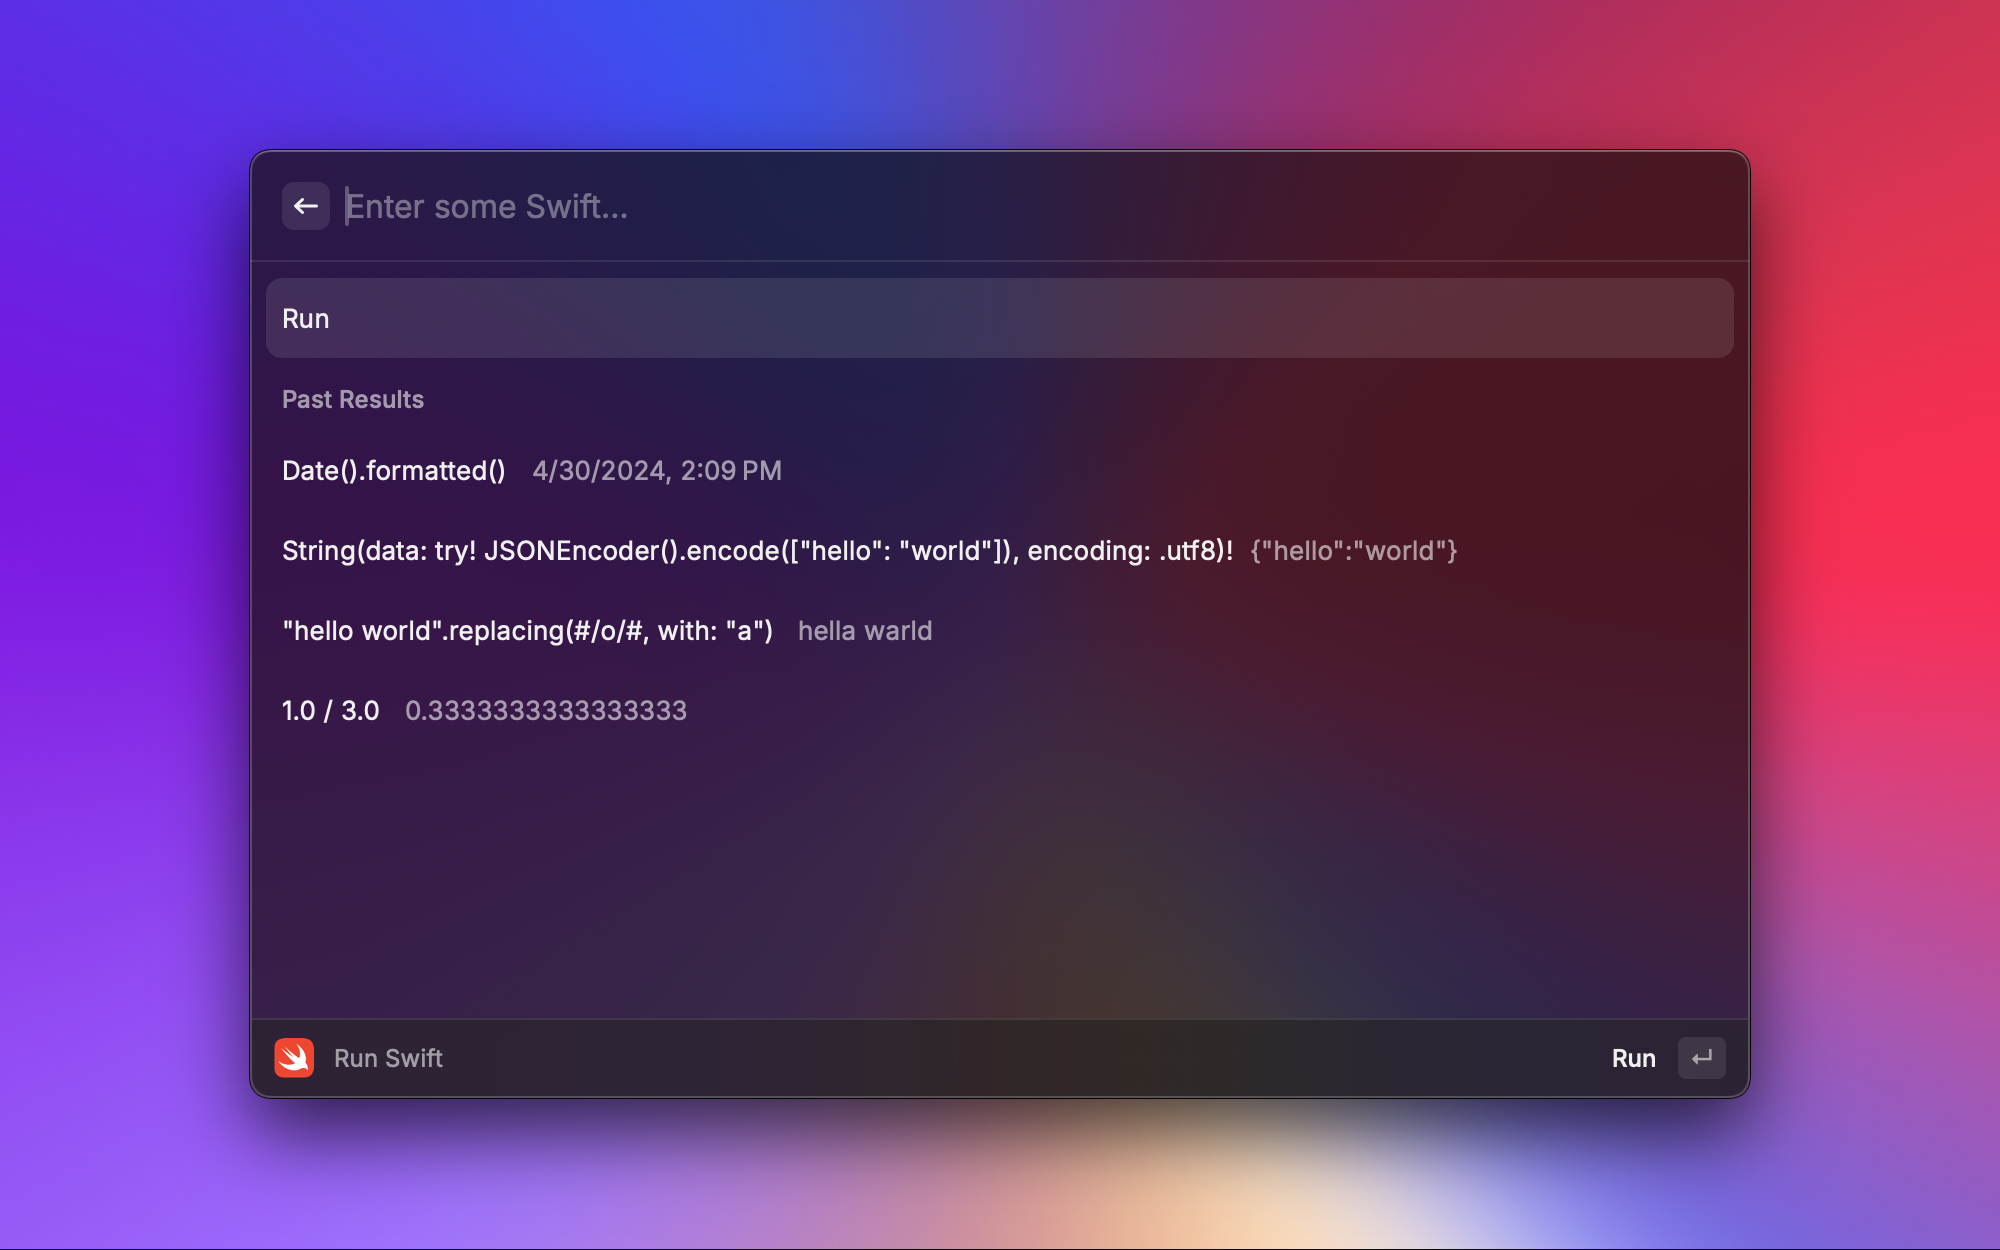
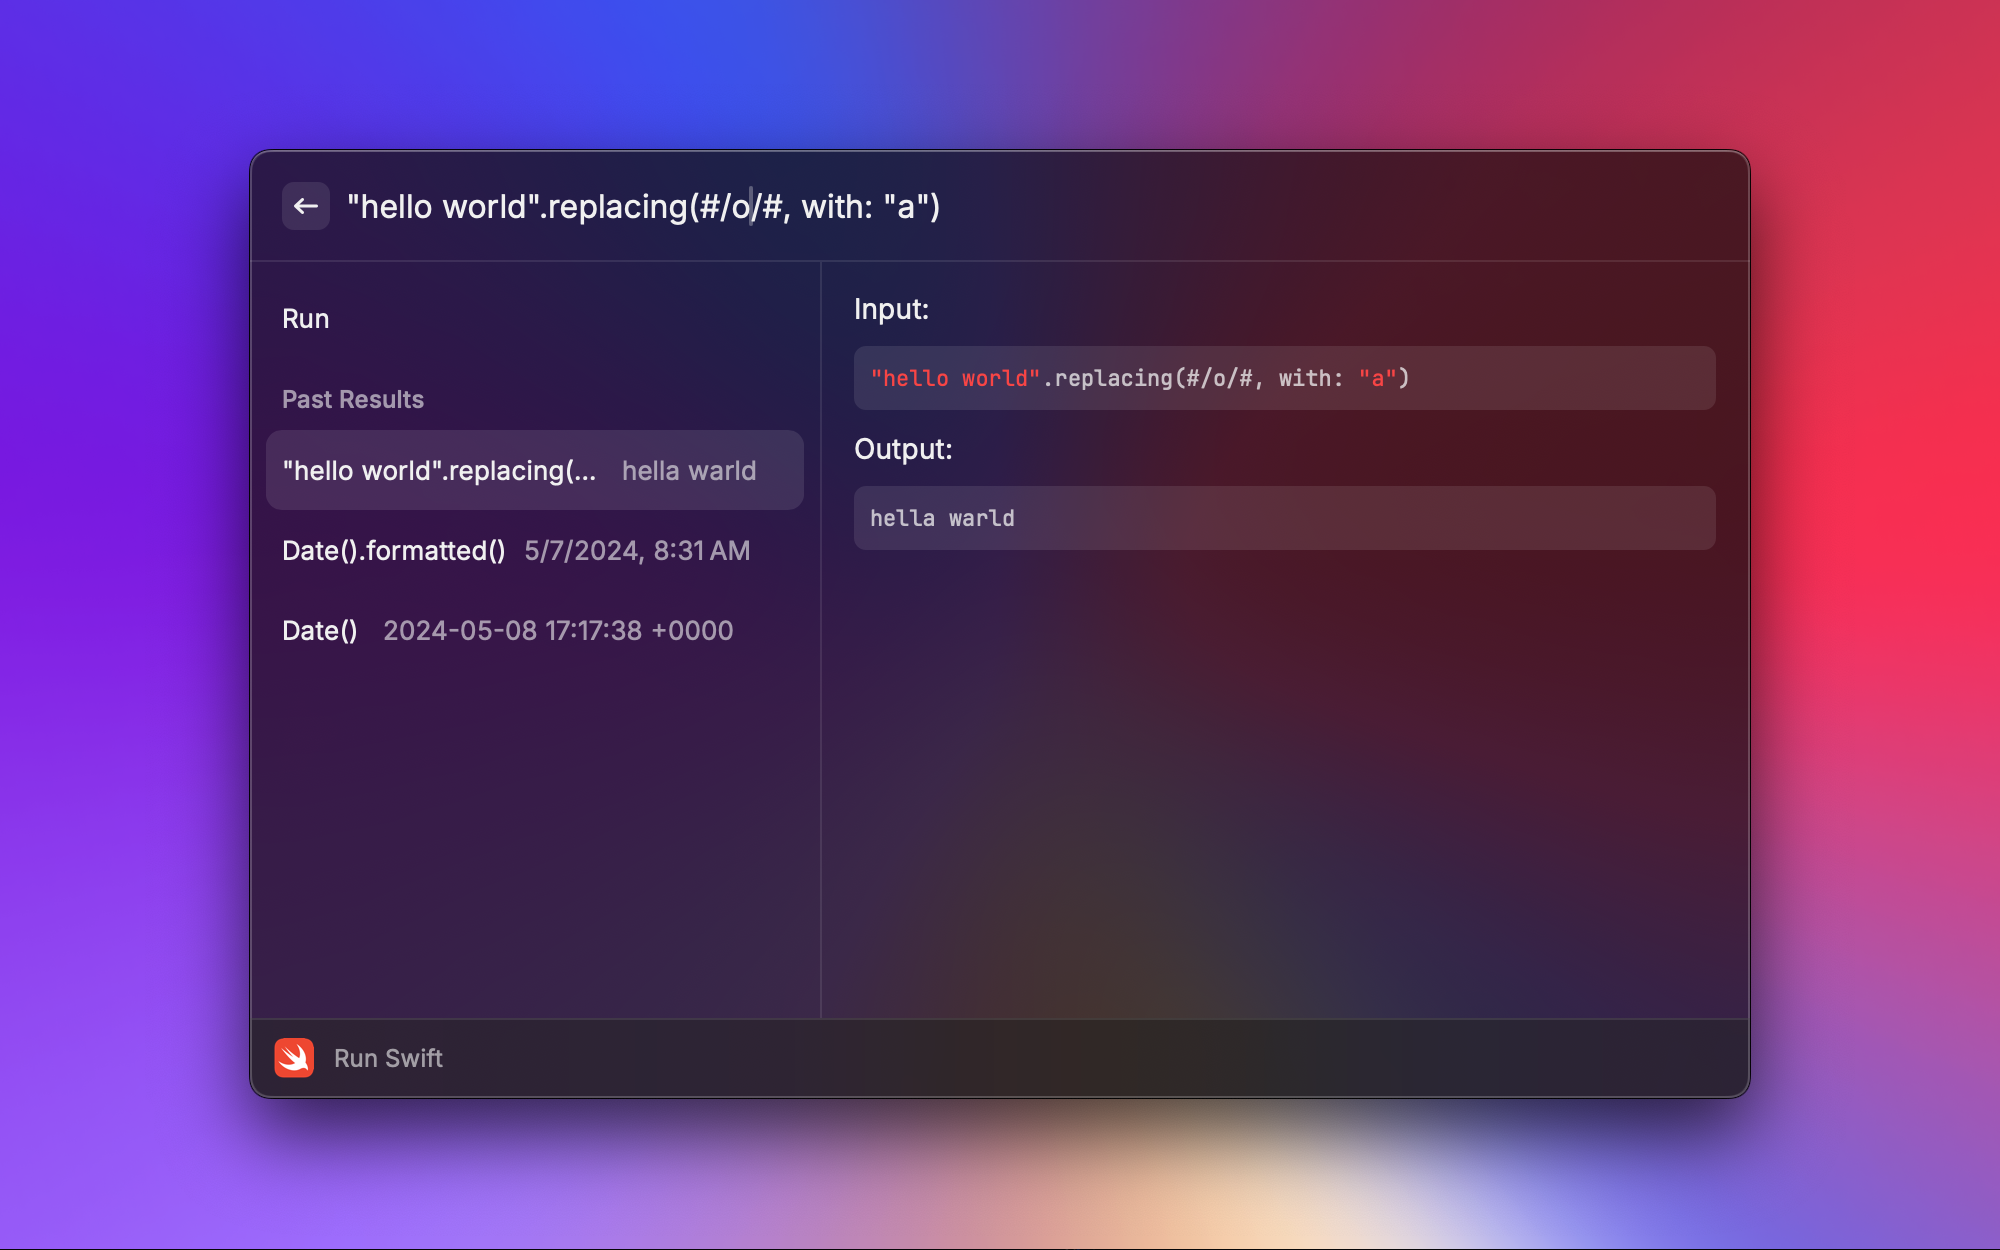
tweaks

diff --git a/src/run-swift.tsx b/src/run-swift.tsx
@@ -3,6 +3,7 @@ import { useExec } from "@raycast/utils";
 import { useState, useEffect } from "react";
 
 type CommandResult = {
+  id: number;
   command: string;
   stdout: string | undefined;
   stderr: string | undefined;
@@ -13,12 +14,14 @@ export default function Command() {
   const [code, setCode] = useState<string | undefined>();
   const [runningCode, setRunningCode] = useState<string | undefined>();
   const [pendingCode, setPendingCode] = useState<string | undefined>();
+  const [selectedID, setSelectedID] = useState<string | undefined>();
 
   const { isLoading, data } = useExec<CommandResult, undefined>("swift", ["repl"], {
     execute: !!runningCode?.trim(),
     input: runningCode,
     parseOutput: ({ stdout, stderr }) => {
       return {
+        id: results.length,
         command: code,
         stdout,
         stderr,
@@ -28,14 +31,21 @@ export default function Command() {
 
   useEffect(() => {
     if (pendingCode && data && (data.stdout || data.stderr)) {
+      console.log("got here", { runningCode, pendingCode, data });
+      data.id = results.length;
       data.command = pendingCode;
       setResults([data, ...results]);
-      setCode(undefined);
+      setRunningCode(undefined);
       setPendingCode(undefined);
+      setSelectedID(String(data.id));
     }
-  }, [data]);
+  }, [data, runningCode]);
 
   function run() {
+    if (!code?.trim()) {
+      return;
+    }
+
     const command = `
     import Foundation
 
@@ -47,10 +57,34 @@ export default function Command() {
     setRunningCode(command);
   }
 
+  useEffect(() => {
+    setSelectedID("run");
+  }, [code]);
+
+  function markdownFor(result: CommandResult): string {
+    const label = result.stderr ? "Error:" : "Output:";
+
+    const string =
+      "Input:\n```swift\n" +
+      result.command +
+      "\n```\n" +
+      label +
+      "\n```swift\n" +
+      (result.stderr || result.stdout || "No output.") +
+      "\n```";
+
+    console.log(result);
+    console.log(string);
+
+    return string;
+  }
+
   return (
     <List
       onSearchTextChange={setCode}
       searchBarPlaceholder="Enter some Swift…"
+      isShowingDetail
+      selectedItemId={selectedID}
       actions={
         <ActionPanel title="Run">
           <Action title="Run" onAction={run} />
@@ -66,6 +100,7 @@ export default function Command() {
           if (result === "Run") {
             return (
               <List.Item
+                id="run"
                 key="run"
                 title="Run"
                 actions={
@@ -79,17 +114,16 @@ export default function Command() {
             return (
               <List.Section key="Past Results" title="Past Results">
                 {results.map((result) => {
-                  if (result.stderr) {
-                    return <List.Item key={Math.random()} title={result.command || ""} subtitle={result.stderr} />;
-                  } else {
-                    return (
-                      <List.Item
-                        key={Math.random()}
-                        title={result.command || ""}
-                        subtitle={result.stdout || "(No Output)"}
-                      />
-                    );
-                  }
+                  console.log("result id", result.id);
+                  return (
+                    <List.Item
+                      id={String(result.id)}
+                      key={String(result.id)}
+                      title={result.command || ""}
+                      subtitle={result.stdout || "(No Output)"}
+                      detail={<List.Item.Detail markdown={markdownFor(result)} />}
+                    />
+                  );
                 })}
               </List.Section>
             );
